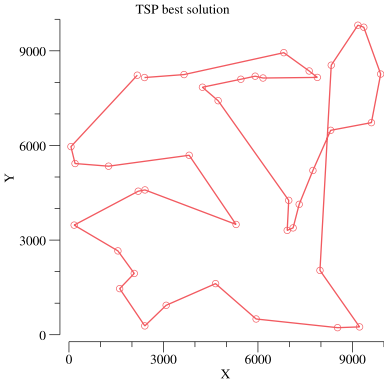
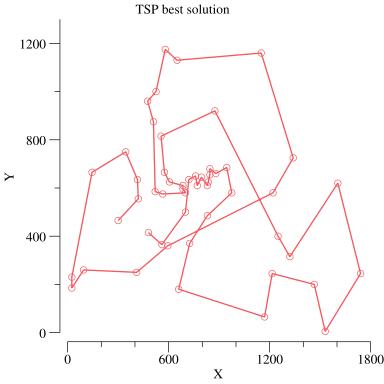
changed quicksort to allow for descending sort and modified beam search accordingly

diff --git a/src/beam_search/beam_search.go b/src/beam_search/beam_search.go
@@ -7,7 +7,7 @@ import "math"
 
 
 // the recursive loop called by qsort_2d below
-func qsort_inner(a []float64,  b []int) ([]float64,[]int) {
+func qsort_inner(a []float64,  b []int) ([]float64, []int) {
 	if len(a) < 2 { return a,b }
 
 	left, right := 0, len(a) - 1
@@ -38,18 +38,42 @@ func qsort_inner(a []float64,  b []int) ([]float64,[]int) {
 	return a,b
 }
 
+
+
 // takes in a 2d array and an index of the row to sort by
 // and returns a 2d array with all rows sorted by the 
 // index row. Assumes that the input array is square (nxn)
-func qsort_2d(a [][]float64, idx int) [][]float64 {
+func qsort_2d(a_input [][]float64, idx int, ascend_or_desc string) [][]float64 {
 	
+	// copy a_input into a
+	a := make([][]float64,len(a_input))
+
+	for i := range a {
+		a[i] = make([]float64, len(a_input[i]))
+		copy(a[i],a_input[i])
+	}
+
+	// throw error message if ascend_or_desc is not set right
+	// if ascend_or_desc = "descending", multiply every value in it
+	// by -1 and then sort that ascending
+	if ascend_or_desc == "ascending" {
+	} else if ascend_or_desc == "descending" {
+		for i:=0; i < len(a[idx]); i++ {
+			a[idx][i] *= -1
+		} 
+	} else {
+		fmt.Println("ERROR: ascend_or_desc in qsort_2d function must have value of 'ascending' or 'descending'")
+	}
+
 	b := make([]int, len(a[idx]))
 	for i:=0; i < len(a[idx]); i++ {
 		b[i] = i
 	}
 
+	// sort by the sorting row
 	_,order := qsort_inner(a[idx],b)
 
+	//sort all other rows
 	for i:=0; i < len(a); i++ {
 		if i != idx {
 			temp := make([]float64,len(a[i]))
@@ -58,6 +82,13 @@ func qsort_2d(a [][]float64, idx int) [][]float64 {
 				a[i][j] = temp[order[j]]
 			}
 		}
+	}
+
+	// revert a[idx] row back to original values
+	if ascend_or_desc == "descending" {
+		for i:=0; i < len(a[idx]); i++ {
+			a[idx][i] *= -1
+		} 
 	}
 	return a
 }
@@ -95,14 +126,14 @@ func beam_search(num_beams int, evaluate func([]int) float64,
 
 		for i, _ := range fitnesses[0] {
 			// negate the evaluations, so that it sorts from largest to smallest
-			fitnesses[0][i] = -evaluate(next_generation_candidates[i])
+			fitnesses[0][i] = evaluate(next_generation_candidates[i])
 			fitnesses[1][i] = float64(i)
 		}
 
 		// sort the fitness array by value in the first row, which holds fitness scores
-		fitnesses = qsort_2d(fitnesses,0)
+		fitnesses = qsort_2d(fitnesses,0, "descending")
 		// Stop the loop if the highest fitness is not greater than max_fitness
-		if -fitnesses[0][0] <= max_fitness{
+		if fitnesses[0][0] <= max_fitness{
 			break
 		} 
 
@@ -113,16 +144,18 @@ func beam_search(num_beams int, evaluate func([]int) float64,
 
 		// Set max_fitness to (-1) times the first element in the first row of fitnesses
 		// since that indicates the leading value
-		max_fitness = -fitnesses[0][0]
+		max_fitness = fitnesses[0][0]
 	}
 
 	return population[0], max_fitness
 }
 
-// This is my implementation of beam search. It generates a random starting population of size num_beams. 
+// This is my implementation of stochastic beam search. It generates a random starting population of size num_beams. 
 // Then, at every step, it looks at the neighbors of all members of the population and then finds the top
-// neighbors to create a new population of size num_beams. This keeps going until the max score is no longer
-// improving at which point it stops and returns the best solution.
+// neighbors to create a new population of size num_beams. It then selects a new population that is the size of num_beams
+// by selecting individuals with the highest fitness individuals more likely to be picked. This keeps going until the 
+// max score sees no improvement after max_iterations_no_improvement rounds at which point it stops and returns the
+// best solution.
 func stochastic_beam_search(num_beams int, max_iterations_no_improvement int, evaluate func([]int) float64, 
 				create_random func() []int, get_neighbors func([]int) [][]int)([]int, float64) { 
 	// decalre variables
@@ -150,7 +183,6 @@ func stochastic_beam_search(num_beams int, max_iterations_no_improvement int, ev
 			neighbors = get_neighbors(population[i])
 			for _, value := range neighbors {
 				next_generation_candidates = append(next_generation_candidates, value)
-
 			}
 		}
 
@@ -161,16 +193,16 @@ func stochastic_beam_search(num_beams int, max_iterations_no_improvement int, ev
 
 		for i, _ := range fitnesses[0] {
 			// negate the evaluations, so that it sorts from largest to smallest
-			fitnesses[0][i] = -evaluate(next_generation_candidates[i])
+			fitnesses[0][i] = evaluate(next_generation_candidates[i])
 			fitnesses[1][i] = float64(i)
 		}
 
 		// sort the fitness array by value in the first row, which holds fitness scores
-		fitnesses = qsort_2d(fitnesses,0)
+		fitnesses = qsort_2d(fitnesses,0,"descending")
 		
 		// Stop the loop if the highest fitness is not greater than max_fitness
 		//fmt.Println(fitnesses[0][0])
-		if -fitnesses[0][0] <= best_fitness_yet {
+		if fitnesses[0][0] <= best_fitness_yet {
 			num_iterations_no_improvement += 1
 		} else {
 			num_iterations_no_improvement = 0
@@ -193,7 +225,7 @@ func stochastic_beam_search(num_beams int, max_iterations_no_improvement int, ev
 		cum_probability = math.Sqrt(cum_probability)
 		// Set max_fitness to (-1) times the first element in the first row of fitnesses
 		// since that indicates the leading value
-		max_fitness = -fitnesses[0][0]
+		max_fitness = fitnesses[0][0]
 
 		if max_fitness > best_fitness_yet {
 			best_fitness_yet = max_fitness
@@ -235,14 +267,12 @@ func main() {
 */
 	fmt.Println("\nRUN ON TSP")
 	tsp_setup_data()
-	best_solution, highest_score := beam_search(30,tsp_evaluation,tsp_create_random_start,tsp_get_neighbors)
+	best_solution, highest_score := beam_search(50,tsp_evaluation,tsp_create_random_start,tsp_get_neighbors)
 	fmt.Println("beam search results", best_solution, -highest_score)
 	plotTSP(best_solution, "tsp_beam_search.png")
-	best_solution, highest_score = stochastic_beam_search(2,100,tsp_evaluation,tsp_create_random_start,tsp_get_neighbors)
+	best_solution, highest_score = stochastic_beam_search(30,100,tsp_evaluation,tsp_create_random_start,tsp_get_neighbors)
 	fmt.Println("stochastic beam search results", best_solution, -highest_score)
-	
-	
 	plotTSP(best_solution, "tsp_stochastic_beam_search.png")
-	best_solution = []int{1,2,3,4}
-	fmt.Println(tsp_get_neighbors(best_solution))
+
+
 }

diff --git a/src/beam_search/sample_functions.go b/src/beam_search/sample_functions.go
@@ -145,8 +145,8 @@ func plotTSP(city_order []int, file_name string) {
 
     plotutil.AddLinePoints(p,"", pts)
     p.X.Min = 0
-    p.X.Max = 10000
+    p.X.Max = 1800
     p.Y.Min = 0
-    p.Y.Max = 10000
+    p.Y.Max = 1300
     p.Save(4, 4, file_name)
 }
